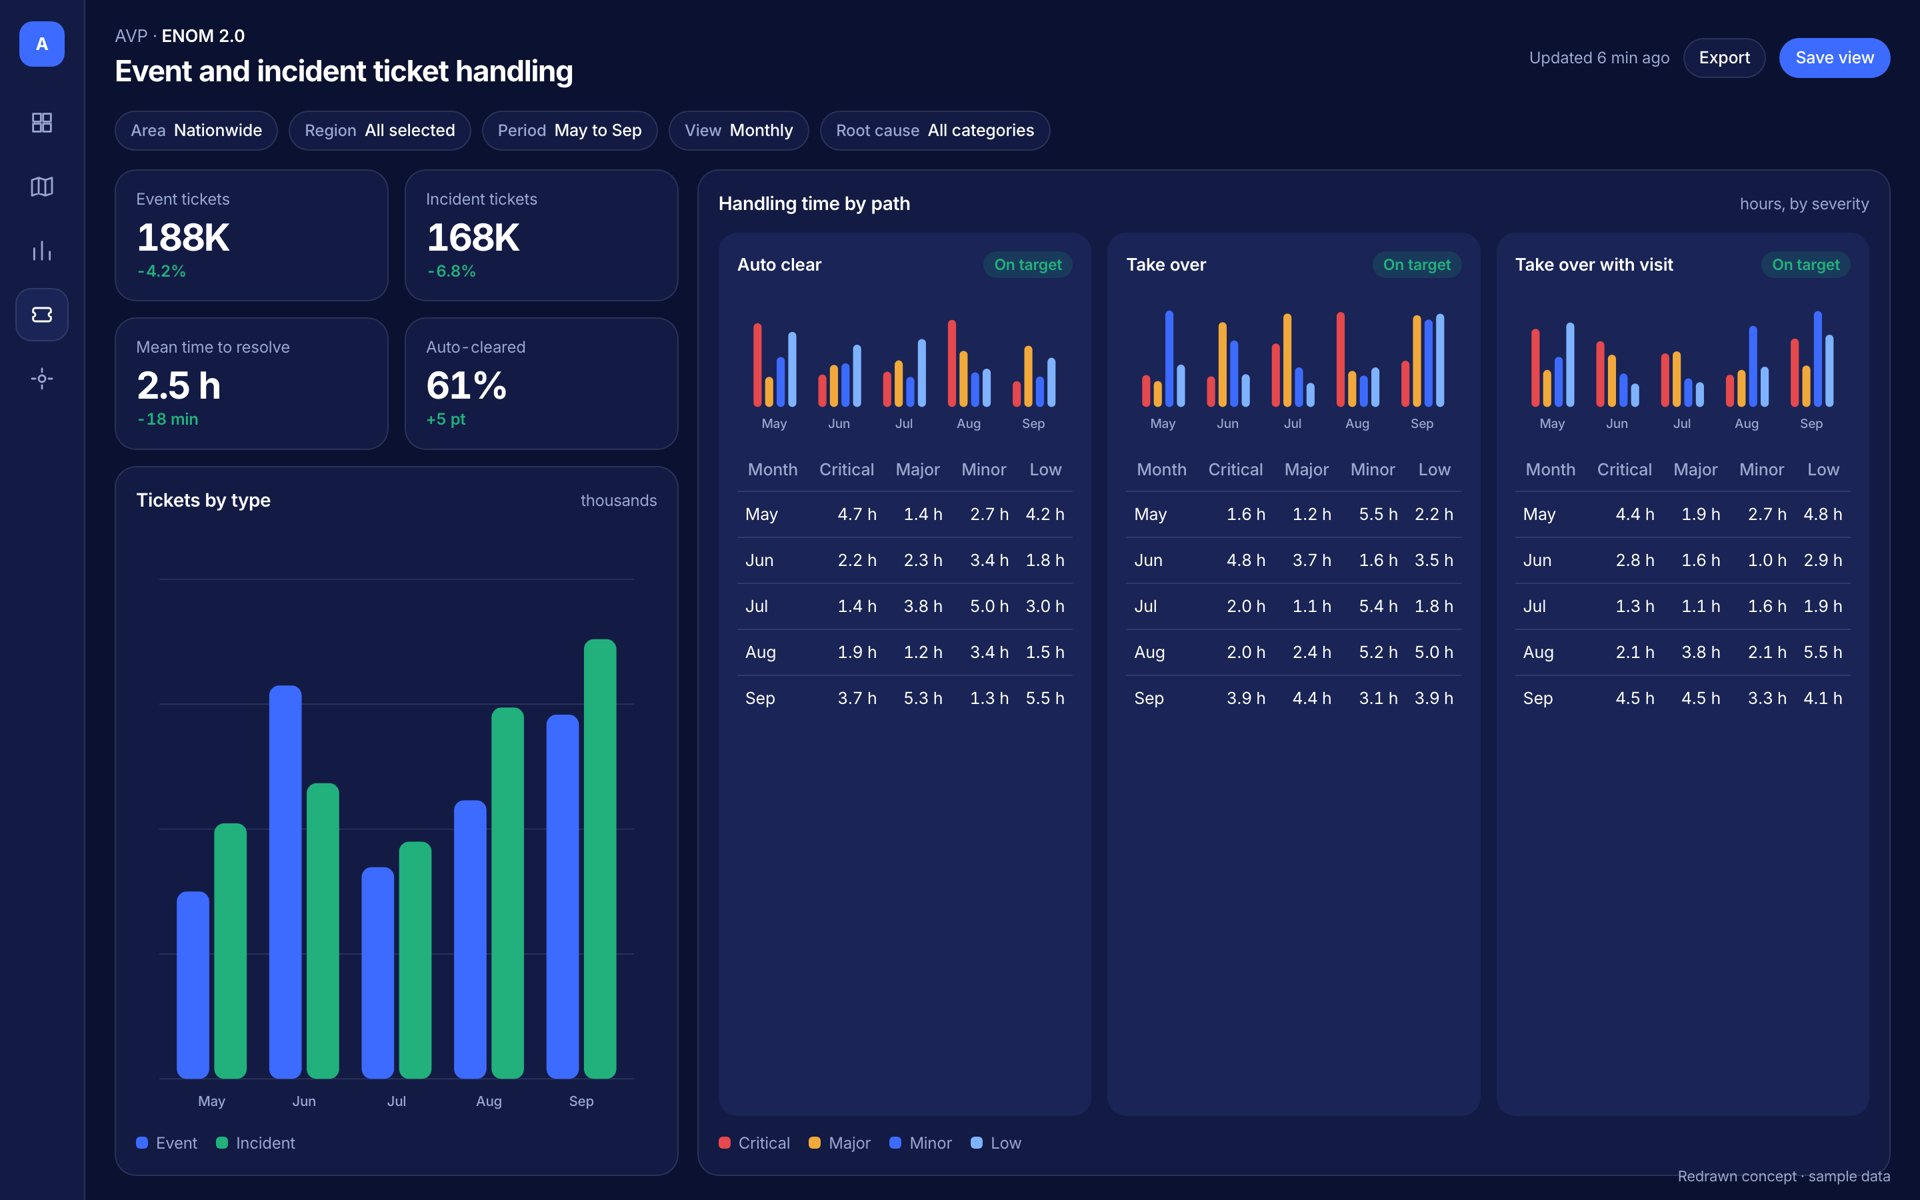
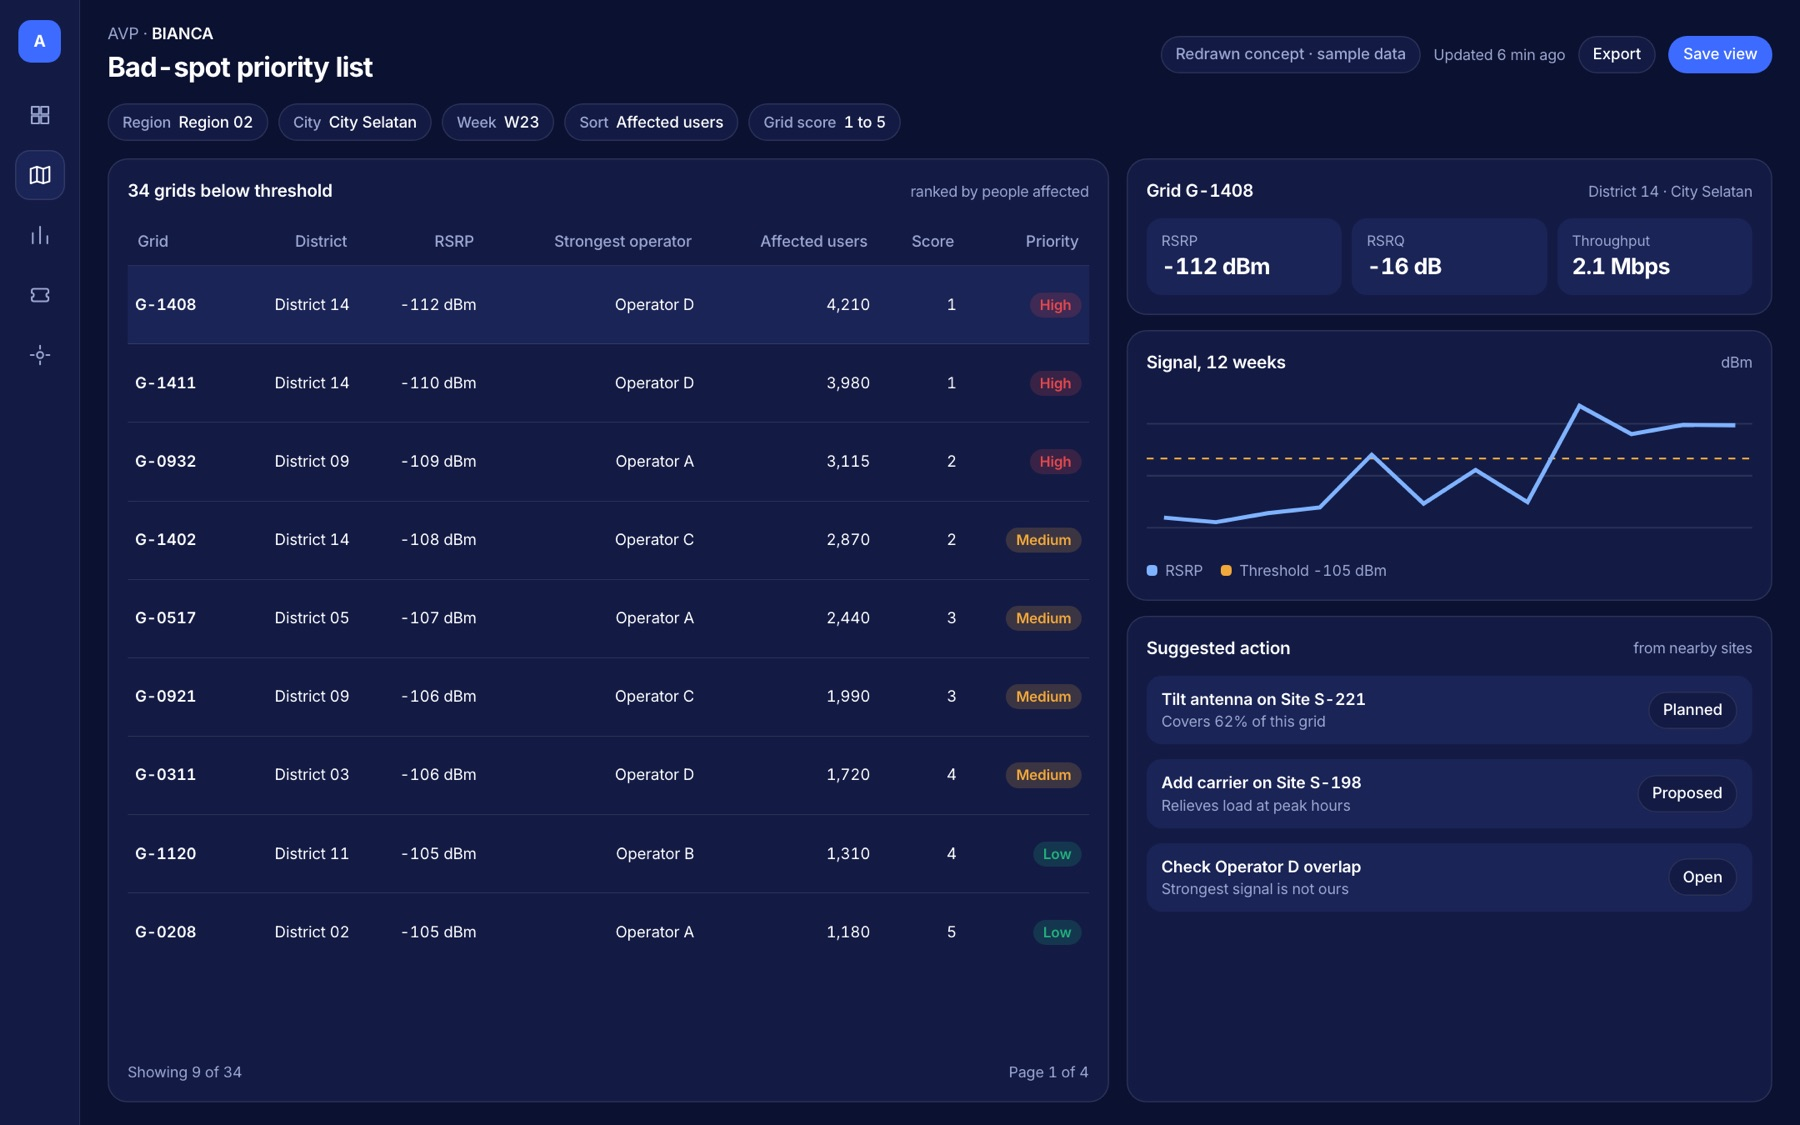
Project pages: captioned screens for five solutions, opening lines, six Telkomsel redraws, new Jalana cover

diff --git a/data2.js b/data2.js
@@ -60,4 +60,24 @@
       ['YomConnect', 'Website, 2023', null, { ph: 'YomConnect', text: 'Website revamp for an Australian company through The Digital Cellar.', facts: [['Role', 'Web Designer'], ['User engagement', 'Up 30%'], ['Turnaround', '15% faster']] }]
     ]]
   ];
+
+  // Hook: one strong opening line per project. Shots: [file, title, caption] for the captioned gallery.
+  const HX = {
+    influence: { hook: 'A creator rate with no source is a guess. Influence shows where every price comes from, then carries the campaign from shortlist to payment.',
+      shots: [['inf-1', 'Home', 'Today’s tasks, active campaigns and the budget on one page.'], ['inf-2', 'Creator catalogue', 'Rates per format, each with its source and date.'], ['inf-3', 'Creator profile', 'The rate card and recent content for one creator.'], ['inf-4', 'Campaign board', 'Each deliverable is a ticket that moves from brief to live.'], ['inf-5', 'Negotiation log', 'The asked price and the agreed price for each deal.'], ['inf-6', 'Agreement', 'The MoU sits with its campaign, next to a timeline of who did what.'], ['inf-7', 'Signing', 'Creators sign on screen. Nothing to print or scan.'], ['inf-8', 'Earnings and tax', 'Creators see what was paid, what was withheld and the tax record.']] },
+    simako: { hook: 'Fourteen museums kept their collections in separate files. SIMAKO gives every object one record that registrars, curators and conservators share.',
+      shots: [['sim-1', 'Home', 'Collection totals, growth, condition and the items that need action.'], ['sim-2', 'Collection list', 'Every object with its registration number, inventory number, type and location.'], ['sim-3', 'New record', 'A form in tabs that counts the required fields still empty.'], ['sim-4', 'Storage', 'Building, floor, room and shelf as a tree, with the objects in each place.'], ['sim-5', 'Loans', 'Outgoing and incoming loans with dates, status and duration.'], ['sim-6', 'Approvals', 'Requests wait for a decision, and the history stays.'], ['sim-7', 'Condition report', 'Six fixed photo angles, measurements and the report history for one object.'], ['sim-8', 'Exhibition page', 'A public page for an exhibition, made from the same records.']] },
+    avp: { hook: 'Analysts lost time looking for the right view. The revamp gives every module one structure and one design system. Adoption went up, and churn on key features went down 18%.',
+      shots: [['avp-1', 'AVP home', 'Three modules, their key numbers and what needs attention this week.'], ['avp-2', 'BIANCA: coverage map', 'Weak-signal grids on the map, with the trend and the result of tuning.'], ['avp-3', 'BIANCA: priority list', 'Grids ranked by people affected, with a suggested action for each.'], ['avp-4', 'DIANA: household internet', 'Customers, devices and opportunity per region and city.'], ['avp-5', 'ENOM: ticket handling', 'Ticket volume and handling time by path and severity.'], ['avp-6', 'ENOM: one ticket', 'A single incident from alarm to fix, against its target time.']] },
+    jalana: { hook: 'Most visitors see one museum and stop. Jalana gives them a reason to visit the next one.', phone: true,
+      shots: [['jal-1', 'Home', 'Your passport progress and the nearest museum.'], ['jal-2', 'Explore', 'Museums on a map, with what is open now.'], ['jal-3', 'Check-in stamp', 'Each visit adds a stamp to a passport page.'], ['jal-4', 'Stamp collection', 'Every museum visited, with the date.'], ['jal-5', 'Collection card', 'A card for an object, with rarity and a serial number.'], ['jal-6', 'Object detail', 'The object in AR, 360 degrees or zoom, and where to find it in the museum.'], ['jal-7', 'Badge', 'A badge per museum that levels up with more visits.'], ['jal-8', 'Day tour', 'Pick the hours, and Jalana orders the museums for the day.']] },
+    abhitek: { hook: 'When safety equipment fails, the first question is who checked it last. ABHITEK answers that for every item.',
+      shots: [['abh-1', 'Console home', 'The actions that need you come first, then stock availability.'], ['abh-2', 'Item list', 'Every item with its status and its place.'], ['abh-3', 'Projects', 'Which items are on which project, and until when.'], ['abh-4', 'Organisation settings', 'Members, roles and rules in one place.'], ['abh-5', 'Financials', 'Purchase value, depreciation and total cost per category.'], ['abh-7', 'Phone home', 'The same list of actions, sized for one hand.'], ['abh-8', 'Phone catalogue', 'Pick a type or model and the details fill in.']] },
+    muaraapp: { hook: 'A glass case shows an object. AR lets a student walk around it.' },
+    repatriasi: { hook: 'Returned relics carry long stories. Games and AR made visitors stay for them, with 89% more interaction.' },
+    vinfast: { hook: 'One car on a crowded booth, eight colours to show. The iPad gave every visitor every version.' },
+    albarsha: { hook: 'Seven companies, and one question from every brand: what can you do for us? The site answers it in one place.' },
+    cribl: { hook: 'A booth has seconds to stop a passer-by. A two-minute game did it, and collected the lead before the first guess.' }
+  };
+  D.projects.forEach((p) => Object.assign(p, HX[p.id] || {}));
 })();

diff --git a/style.css b/style.css
@@ -129,10 +129,14 @@ h2 em{font-weight:400;letter-spacing:-.02em;color:var(--blue)} .dark h2 em{color
 .c-avp .w{z-index:3;font-size:22cqw;right:3cqw;bottom:-1.5cqw;color:transparent;-webkit-text-stroke:.3cqw #fff;text-shadow:0 1cqw 3cqw rgba(0,0,0,.4)}
 .c-avp .lock{left:5cqw;bottom:5cqw}
 .c-avp img:nth-child(1){--h:rotate(8deg) translateX(2cqw)} .c-avp img:nth-child(2){--h:rotate(-7deg) translateY(1cqw)} .c-avp img:nth-child(3){--h:rotate(0deg) scale(1.03)}
-.c-jalana{--bg:#07080F}
-.c-jalana img{inset:0;width:100%;height:100%;border-radius:0;object-position:50% 78%;transform:scale(1.55);transform-origin:50% 70%;box-shadow:none}
-.c-jalana::before{content:"";position:absolute;inset:0;z-index:1;background:linear-gradient(180deg,#07080F 8%,rgba(7,8,15,0) 55%)}
-.c-jalana .w{z-index:2;left:5cqw;top:4cqw;font:400 italic 19cqw/1 var(--serif);letter-spacing:-.02em}
+.c-jalana{--bg:radial-gradient(120% 90% at 78% 30%,#1B3A36 0%,#0B1512 46%,#07080F 100%)}
+.c-jalana img{width:17cqw;height:auto;border-radius:2.4cqw;box-shadow:0 3cqw 6cqw rgba(0,0,0,.55),0 0 0 .5cqw #1b1b1b}
+.c-jalana img:nth-of-type(1){left:46cqw;top:14cqw;transform:rotate(-7deg);opacity:.9}
+.c-jalana img:nth-of-type(2){left:81cqw;top:12cqw;transform:rotate(7deg);opacity:.9}
+.c-jalana img:nth-of-type(3){left:70cqw;top:7cqw;transform:rotate(3deg)}
+.c-jalana img:nth-of-type(4){left:58cqw;top:5cqw;transform:rotate(-2deg);z-index:2}
+.c-jalana .w{z-index:3;left:5cqw;top:6cqw;font:400 italic 15cqw/1 var(--serif);letter-spacing:-.02em}
+.c-jalana .chip{left:5cqw;bottom:5cqw}
 .c-abhitek{--bg:#F6C61A;color:#151203}
 .c-abhitek img:nth-child(1){width:62cqw;aspect-ratio:1520/1080;left:5cqw;top:10cqw;transform:rotate(-3deg)}
 .c-abhitek img:nth-child(2){width:21cqw;aspect-ratio:738/1600;right:7cqw;top:6cqw;border-radius:2.6cqw;border:.7cqw solid #151203;transform:rotate(5deg)}
@@ -181,7 +185,7 @@ h2 em{font-weight:400;letter-spacing:-.02em;color:var(--blue)} .dark h2 em{color
 .wcard:hover .cov img{transform:var(--h,scale(1.04))}
 .c-influence img{--h:perspective(1400px) rotateY(-10deg) rotateX(5deg) rotate(1deg)}
 .c-simako img:nth-child(1){--h:rotate(-11deg) translateX(-2cqw)} .c-simako img:nth-child(2){--h:rotate(10deg) translateX(2cqw)} .c-simako img:nth-child(3){--h:translateY(-1.5cqw)}
-.c-jalana img{--h:scale(1.7)} .c-abhitek img:nth-child(1){--h:rotate(-1deg)} .c-abhitek img:nth-child(2){--h:rotate(9deg) translateY(-1cqw)}
+.c-abhitek img:nth-child(1){--h:rotate(-1deg)} .c-abhitek img:nth-child(2){--h:rotate(9deg) translateY(-1cqw)}
 .c-muaraapp img:nth-of-type(1){--h:rotate(-1deg) scale(1.03)} .c-muaraapp img:nth-of-type(2){--h:rotate(10deg) translateY(-1cqw)} .c-repatriasi img:nth-child(1){--h:rotate(-13deg) translateX(-2cqw)} .c-repatriasi img:nth-child(2){--h:rotate(12deg) translateX(2cqw)} .c-repatriasi img:nth-child(3){--h:rotate(2deg) translateY(-1.5cqw)}
 .c-vinfast img:nth-of-type(1){--h:rotate(8deg) translateX(1cqw)} .c-vinfast img:nth-of-type(2){--h:rotate(-1deg) scale(1.04)} .c-albarsha img:nth-of-type(1){--h:translate(2cqw,-1cqw)} .c-albarsha img:nth-of-type(2){--h:translateY(-2cqw)} .c-cribl img:nth-of-type(1){--h:rotate(-8deg) translateX(-1cqw)} .c-cribl img:nth-of-type(2){--h:rotate(0deg) scale(1.04)}
 
@@ -407,3 +411,17 @@ h2 em{font-weight:400;letter-spacing:-.02em;color:var(--blue)} .dark h2 em{color
 .pnext-band .pnext{max-width:1136px;margin:0 auto}
 .pnext-band h2{font-size:clamp(28px,3.6vw,48px);letter-spacing:-.045em;margin-bottom:14px}
 @media(max-width:760px){.pfigs.n2,.pfigs.n3{grid-template-columns:1fr}.pfig img,.pfigs .pfig img{max-height:none}}
+
+/* Project page v3: opening line and captioned screens */
+.pblock .phook{font-size:clamp(21px,2.2vw,30px);font-weight:600;letter-spacing:-.03em;line-height:1.3;max-width:34em;margin-bottom:18px;color:var(--navy)}
+.pfig{justify-content:flex-start}
+.pfig .zoom{flex:1;display:flex;align-items:center;justify-content:center}
+.pfig figcaption{display:grid;grid-template-columns:auto 1fr;column-gap:10px;text-align:left;font-size:15px;line-height:1.45;color:var(--l2);margin-top:14px;padding:0 4px 2px}
+.pfig figcaption span{grid-row:span 2;font-family:var(--cap);font-weight:700;font-size:11px;color:var(--blue);padding-top:4px}
+.pfig figcaption b{display:block;font-weight:600;color:var(--navy);letter-spacing:-.01em}
+.pfigs.n1 .pfig img{max-height:620px}
+.pfigs.n2 .pfig img{max-height:420px}
+.pfigs.n2 .pfig:last-child:nth-child(odd){grid-column:span 2}
+.pfigs.n2 .pfig:last-child:nth-child(odd) img{max-height:560px}
+.pw.phone .pfigs .pfig img{max-height:540px}
+.pw.phone .pfigs.n2{grid-template-columns:1fr 1fr}

diff --git a/work.html b/work.html
@@ -41,12 +41,13 @@
   const p = D.projects[i], n = D.projects[(i + 1) % D.projects.length];
   document.title = `${p.name} · Thomas Arya`;
   const mail = `mailto:aquinasarya@gmail.com?subject=${encodeURIComponent('Case study request: ' + p.name)}`;
-  const fig = (src, alt, cap) => `<figure class="pfig reveal"><button type="button" class="zoom" data-src="img/${src}.jpg" aria-label="View ${esc(alt)} full screen"><img src="img/${src}.jpg" alt="${esc(alt)}" loading="lazy"></button>${cap ? `<figcaption>${esc(cap)}</figcaption>` : ''}</figure>`;
-  const figs = (list, from) => list.length ? `<div class="pfigs n${Math.min(list.length, 3)}">${list.map((x, j) => fig(x, `${p.name} screen ${from + j + 1}`)).join('')}</div>` : '';
-  const im = p.imgs, lead = im.slice(0, 1), mid = im.slice(1, 3), rest = im.slice(3);
+  // A shot is a file name, or [file, title, caption]
+  const fig = (x, alt, n) => { const src = Array.isArray(x) ? x[0] : x, t = Array.isArray(x) ? x[1] : '', c = Array.isArray(x) ? x[2] : ''; return `<figure class="pfig reveal"><button type="button" class="zoom" data-src="img/${src}.jpg" aria-label="View ${esc(t || alt)} full screen"><img src="img/${src}.jpg" alt="${esc(t || alt)}" loading="lazy"></button>${t ? `<figcaption><span>${String(n).padStart(2, '0')}</span><b>${esc(t)}</b>${esc(c)}</figcaption>` : ''}</figure>`; };
+  const figs = (list, from, cols) => list.length ? `<div class="pfigs n${cols || Math.min(list.length, 3)}">${list.map((x, j) => fig(x, `${p.name} screen ${from + j + 1}`, from + j + 1)).join('')}</div>` : '';
+  const im = p.shots || p.imgs, ph = p.phone, lead = im.slice(0, ph ? 3 : 1), mid = im.slice(ph ? 3 : 1, ph ? 5 : 3), rest = im.slice(ph ? 5 : 3);
   const locked = `<div class="locked reveal"><p class="kick" style="margin:0">Under confidentiality</p><h3>Screens, flows and the design system are shared in a private walkthrough.</h3><p>This is client work. I can show the real modules, the information architecture before and after, and the component library on a call.</p><a class="btn btn-ink" href="${mail}"><span>Request a walkthrough</span><i aria-hidden="true">→</i></a></div>`;
   document.getElementById('page').innerHTML = `
-  <article class="pw">
+  <article class="pw${p.phone ? ' phone' : ''}">
     <a class="pback" href="index.html#work"><span aria-hidden="true">←</span> Back to all work</a>
     <div class="pcover reveal">${cover(p)}</div>
     <header class="phead">
@@ -56,6 +57,7 @@
     </header>
     <section class="pblock">
       <h2>What it is</h2>
+      ${p.hook ? `<p class="phook">${esc(p.hook)}</p>` : ''}
       <p>${esc(p.about)}</p>
       ${p.shotsNote ? `<p class="pnote">${esc(p.shotsNote)}</p>` : ''}
       ${im.length ? figs(lead, 0) : locked}
@@ -64,7 +66,7 @@
       <h2>What I did</h2>
       <blockquote>${esc(p.statement)}</blockquote>
       <ol class="steps">${p.steps.map((s, j) => `<li><span>0${j + 1}</span>${esc(s)}</li>`).join('')}</ol>
-      ${figs(mid, 1)}
+      ${figs(mid, lead.length)}
     </section>
     <section class="pblock">
       <h2>What changed</h2>
@@ -72,7 +74,7 @@
     </section>
     ${p.yt ? `<section class="pblock"><h2>See it in use</h2><div class="reveal">${player(p.yt, p.ytStart, '', p.ytPoster)}</div></section>` : ''}
     ${p.vids ? `<section class="pblock"><h2>See it in use</h2><div class="vids">${p.vids.map((v, j) => `<figure class="reveal${j === 0 ? ' big' : ''}"><video src="media/${v[0]}.mp4" poster="media/${v[0]}.jpg" ${j === 0 ? 'autoplay' : 'controls preload="none"'} muted loop playsinline></video><figcaption>${esc(v[1])}</figcaption></figure>`).join('')}</div></section>` : ''}
-    ${rest.length || p.stills ? `<section class="pblock"><h2>More screens</h2>${figs(rest, 3)}${p.stills ? `<div class="pfigs n2">${p.stills.map((x) => fig(x, p.name + ' video still')).join('')}</div><p class="pnote">Stills from the video.</p>` : ''}</section>` : ''}
+    ${rest.length || p.stills ? `<section class="pblock"><h2>${p.shots ? 'Screen by screen' : 'More screens'}</h2>${figs(rest, lead.length + mid.length, ph ? 3 : p.shots ? 2 : 0)}${p.stills ? `<div class="pfigs n2">${p.stills.map((x) => fig(x, p.name + ' video still', 0)).join('')}</div><p class="pnote">Stills from the video.</p>` : ''}</section>` : ''}
     <div class="pcta">
       ${p.url ? `<a class="btn btn-ink" href="${esc(p.url)}" target="_blank" rel="noopener"><span>${esc(p.cta)}</span><i aria-hidden="true">↗</i></a>` : ''}
       <a class="btn btn-ink" href="${mail}"><span>Ask for the full case study</span><i aria-hidden="true">→</i></a>

diff --git a/data.js b/data.js
@@ -16,7 +16,7 @@ window.DATA = {
     { id: 'avp', name: 'Telkomsel AVP Dashboard', sub: 'Revamping a telco dashboard, module by module', type: 'Product Design', year: '2024', role: 'Product Designer', time: '2024 to present', field: 'Telco',
       about: 'At Immobi I work with business analysts to revamp modules of Telkomsel’s AVP Dashboard: BIANCA, DIANA, MONA, ENOM and IPTV. The work covers information architecture, user flows and a shared design system. This is client work under confidentiality, so the screens shown here are redrawn with sample data.',
       impacts: [['18% less churn', 'Usability changes raised adoption and reduced churn on key AVP features.'], ['One design system', 'A streamlined Figma library keeps every module consistent.'], ['Clearer paths', 'Reworked information architecture shortens the way to each task.']],
-      imgs: ['avp-1', 'avp-2', 'avp-3'], shotsNote: 'These three screens are redrawn concepts with sample data and neutral names. The real modules are shared in a private walkthrough.', cta: LOCK },
+      imgs: ['avp-1', 'avp-2', 'avp-3'], shotsNote: 'These six screens are redrawn concepts with sample data and neutral names. The real modules are shared in a private walkthrough.', cta: LOCK },
     { id: 'jalana', name: 'Jalana', sub: 'A museum passport in your pocket', type: 'Mobile Design', year: '2026', role: 'Product owner and designer', time: '2026, in development', field: 'Museums and tourism',
       about: 'Jalana is a digital museum passport by Muara Studio. Visitors check in at museums, collect cards and badges, and keep a notebook of what they saw. The work covers the phone and tablet app, a CMS, a promo site and a motion film.',
       impacts: [['A reason to visit the next museum', 'Cards and badges turn single visits into a collection.'], ['Phone and tablet together', 'Every screen is designed for both sizes from the start.'], ['One source of content', 'Museum teams edit their own content in the CMS.']],

diff --git a/shared.js b/shared.js
@@ -9,8 +9,8 @@ window.TA = (() => {
   const covers = {
     influence: (p) => `${img('influence-1', p.name + ' earnings screen')}<span class="chip">Rates with a source</span>`,
     simako: (p) => `${img('simako-3', '')}${img('simako-4', '')}${img('simako-2', p.name + ' dashboard')}<span class="chip glass">14 museums, one record</span>`,
-    avp: (p) => `${img('avp-2', '')}${img('avp-3', '')}${img('avp-1', p.name + ' redrawn coverage map, sample data')}<span class="w">18%</span><span class="chip glass lock">Redrawn · sample data</span>`,
-    jalana: (p) => `${img('jalana-3', p.name + ' app screens')}<span class="w">Jalana</span>`,
+    avp: (p) => `${img('avp-4', '')}${img('avp-5', '')}${img('avp-2', p.name + ' redrawn coverage map, sample data')}<span class="w">18%</span><span class="chip glass lock">Redrawn · sample data</span>`,
+    jalana: (p) => `<span class="w">Jalana</span>${img('jal-2', '')}${img('jal-5', '')}${img('jal-3', '')}${img('jal-1', p.name + ' app home screen')}<span class="chip glass">Stamps, cards and badges</span>`,
     abhitek: (p) => `${img('abhitek-1', p.name + ' web console')}${img('abhitek-3', p.name + ' phone app')}<span class="chip">Office console + field app</span>`,
     muaraapp: (p) => `${[92, 72, 52].map((s) => `<i class="ring" style="width:${s}cqw;height:${s}cqw"></i>`).join('')}${img('muaraapp-d1', p.name + ' Stegodon in AR on iPad')}${img('muaraapp-d4', p.name + ' hunting module screen')}`,
     repatriasi: (p) => `${img('sunting-1', '')}${img('nyala-1', '')}${img('repatriasi-1', p.name + ' kiosks and games')}<span class="w">Repatriasi</span>`,
